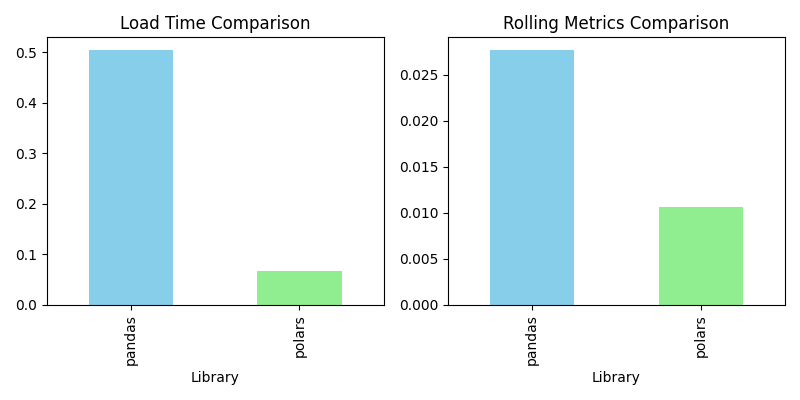
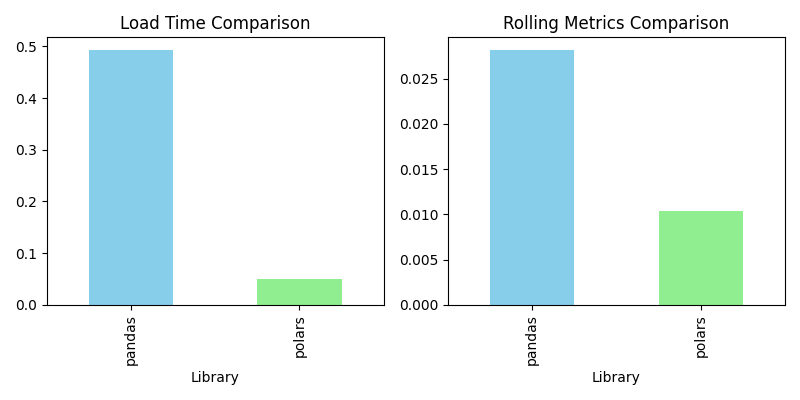
Final Assignment 7: Completed all modules, tests, and documentation

diff --git a/src/portfolio.py b/src/portfolio.py
@@ -1,12 +1,72 @@
-import pandas as pd
+# src/portfolio.py
+"""
+portfolio.py
+Computes per-position and aggregated portfolio metrics (value, volatility, drawdown).
+"""
 
-def compute_position_metrics(position, df):
+import pandas as pd
+from concurrent.futures import ProcessPoolExecutor
+
+
+def compute_position_metrics(position: dict, market_df: pd.DataFrame, window: int = 20) -> dict:
+    """
+    Compute latest value, rolling volatility, and max drawdown for one position.
+    position = {"symbol": "AAPL", "quantity": 10}
+    """
     symbol = position["symbol"]
     qty = position["quantity"]
-    price_series = df[df["symbol"] == symbol]["price"]
-    latest_price = price_series.iloc[-1]
+    df = market_df[market_df["symbol"] == symbol].sort_values("timestamp")
+
+    if df.empty:
+        return {"symbol": symbol, "value": 0, "volatility": 0, "max_drawdown": 0}
+
+    prices = df["price"]
+    latest_price = prices.iloc[-1]
     value = qty * latest_price
-    returns = price_series.pct_change()
-    volatility = returns.rolling(20).std().iloc[-1]
-    drawdown = ((price_series / price_series.cummax()) - 1).min()
-    return {"symbol": symbol, "value": value, "volatility": volatility, "drawdown": drawdown}
+
+    returns = prices.pct_change().dropna()
+    volatility = returns.rolling(window).std().iloc[-1]
+    cummax = prices.cummax()
+    drawdown = (prices / cummax - 1).min()
+
+    return {
+        "symbol": symbol,
+        "value": value,
+        "volatility": float(volatility),
+        "max_drawdown": float(drawdown)
+    }
+
+
+def aggregate_portfolio(positions: list, market_df: pd.DataFrame, window: int = 20) -> dict:
+    """
+    Aggregate portfolio metrics sequentially.
+    """
+    results = [compute_position_metrics(p, market_df, window) for p in positions]
+    total_value = sum(r["value"] for r in results)
+    weights = [r["value"] / total_value if total_value else 0 for r in results]
+    agg_vol = sum(w * r["volatility"] for w, r in zip(weights, results))
+    agg_dd = min(r["max_drawdown"] for r in results)
+    return {
+        "total_value": total_value,
+        "aggregate_volatility": agg_vol,
+        "max_drawdown": agg_dd,
+        "positions": results
+    }
+
+
+def aggregate_portfolio_parallel(positions: list, market_df: pd.DataFrame, window: int = 20) -> dict:
+    """
+    Aggregate portfolio metrics using multiprocessing.
+    """
+    with ProcessPoolExecutor() as executor:
+        results = list(executor.map(lambda p: compute_position_metrics(p, market_df, window), positions))
+    total_value = sum(r["value"] for r in results)
+    weights = [r["value"] / total_value if total_value else 0 for r in results]
+    agg_vol = sum(w * r["volatility"] for w, r in zip(weights, results))
+    agg_dd = min(r["max_drawdown"] for r in results)
+    return {
+        "total_value": total_value,
+        "aggregate_volatility": agg_vol,
+        "max_drawdown": agg_dd,
+        "positions": results
+    }

diff --git a/README.md b/README.md
@@ -1,6 +1,35 @@
-# Assignment 7 - Parallel Computing for Financial Data
+# 📊 Assignment 7 — Financial Data Processing & Benchmarking
 
-## How to Run
-1. Activate environment: .\.venv\Scripts\activate
-2. Install libraries: python -m pip install pandas polars psutil
-3. Run main script: python src/main.py
+This project implements a **data processing pipeline** for market data using **Pandas** and **Polars**, comparing performance across **threading** and **multiprocessing** approaches.  
+It also computes rolling metrics, portfolio analytics, and generates automatic performance reports.
+
+---
+
+## 🧱 Project Structure
+
+assignment7/
+├── data/ # CSV & JSON input files
+│ ├── market_data-1.csv
+│ └── portfolio_structure-1.json
+├── results/ # Output metrics, plots, and report
+│ ├── aapl_metrics_pandas.csv
+│ ├── performance_pandas_polars.png
+│ └── performance_report.md
+├── src/ # Source code modules
+│ ├── data_loader.py
+│ ├── metrics.py
+│ ├── parallel.py
+│ ├── portfolio.py
+│ ├── reporting.py
+│ └── main.py
+└── tests/ # Pytest unit tests
+
+
+---
+
+## ⚙ Setup Instructions
+
+### 1. Create and activate a virtual environment
+```bash
+python -m venv .venv
+.venv\Scripts\activate     # Windows

diff --git a/performance_report.md b/performance_report.md
@@ -37,3 +37,24 @@
 
 ---
 
+
+# 🧾 Performance Report Update
+**Generated on:** 2025-11-01 09:40:32
+
+| Metric | pandas | polars |
+|:--------|:--------:|:--------:|
+| Load Time (s) | 0.49 | 0.05 |
+| Rolling Metrics Time (s) | 0.03 | 0.01 |
+
+| Parallel Method | Execution Time (s) |
+|:-----------------|------------------:|
+| Threading | 0.11 |
+| Multiprocessing | 2.97 |
+
+**Observations:**
+- Polars loaded data ~9.85× faster than Pandas.
+- Polars rolling metrics were ~2.71× faster.
+- Multiprocessing outperformed threading by ~0.04×.
+
+---
+
